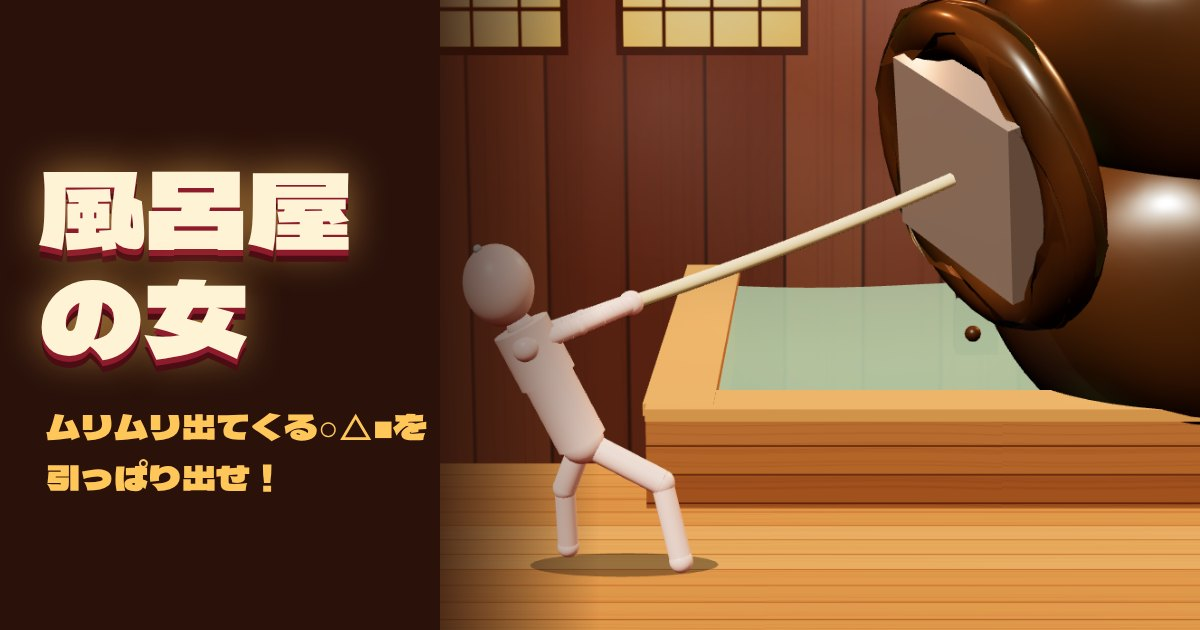
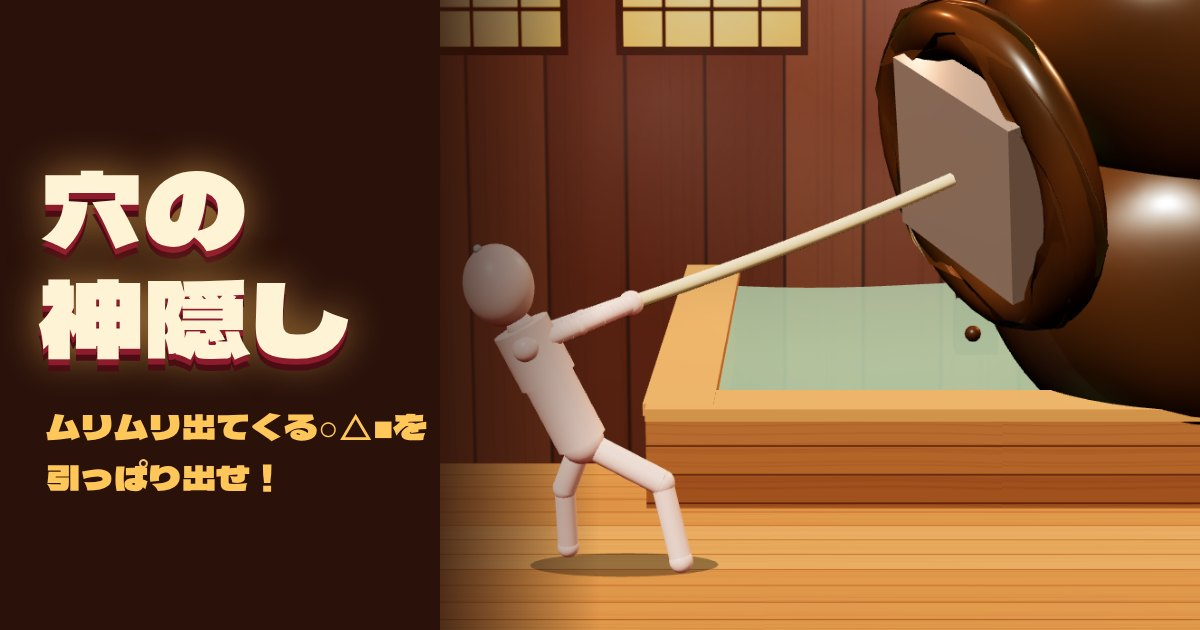
仕上げ：「穴の神隠し」に改名、練習・連続・金の○・お尻の反応・振動・共有画像・軽量モード・読みこみ表示・称号の検算、ランキング最終リセット
Claude-Session: https://claude.ai/code/session_015kjrkbndTJzVydCEMe4R1T

Changed region(s): [[0.0308, 0.2413, 0.3083, 0.6032]]

diff --git a/admin.html b/admin.html
@@ -3,7 +3,7 @@
 <head>
 <meta charset="utf-8">
 <meta name="viewport" content="width=device-width,initial-scale=1">
-<title>風呂屋の女 管理画面</title>
+<title>穴の神隠し 管理画面</title>
 <meta name="robots" content="noindex">
 <style>
 body{margin:0;background:#2a1210;color:#fff3d6;font-family:"Hiragino Kaku Gothic ProN","Noto Sans JP","Yu Gothic",Meiryo,sans-serif}
@@ -24,7 +24,7 @@ small{color:#d9bfa0}
 <script src="config.js"></script>
 </head>
 <body><main>
-<h1>風呂屋の女 管理画面</h1>
+<h1>穴の神隠し 管理画面</h1>
 <div class="box">
   <div>この画面の管理用ID：</div><p><code id="uid">読みこみ中…</code></p>
   <div style="font-size:13px;line-height:1.7">はじめての時だけ：Firebase の Realtime Database で、いちばん上に <b>furo_admin</b> を作り、その下に <b>uid</b> を作って、値に上のIDを入れてください。<br>（このブラウザのデータを消すとIDが変わります。そのときは入れなおしてください）</div>
@@ -54,11 +54,11 @@ async function load(){const msg=document.getElementById('msg');msg.textContent='
   try{
     if(!FB.apiKey||!FB.databaseURL)throw new Error('config.js に apiKey と databaseURL が入っていません');
     const a=await auth();document.getElementById('uid').textContent=a.uid;
-    const [sc,hd]=await Promise.all([fetch(DBU+'/furo3/scores.json?orderBy=%22s%22&limitToLast=100').then(r=>r.json()),fetch(DBU+'/furo3/hidden.json').then(r=>r.json())]);
+    const [sc,hd]=await Promise.all([fetch(DBU+'/furo4/scores.json?orderBy=%22s%22&limitToLast=100').then(r=>r.json()),fetch(DBU+'/furo4/hidden.json').then(r=>r.json())]);
     LIST=Object.entries(sc||{}).map(([u,v])=>Object.assign({u},v)).sort((x,y)=>y.s-x.s||x.t-y.t);
     document.getElementById('tbl').innerHTML=LIST.map((r,i)=>{const h=hd&&hd[r.u];return `<tr id="r_${esc(r.u)}" class="${h?'hid':''}"><td>${i+1}</td><td>${esc(r.n)}${r.x?`<br><a href="https://x.com/${esc(r.x)}" target="_blank" rel="noopener">@${esc(r.x)}</a>`:''}<br><small>${new Date(r.t).toLocaleString('ja-JP')}</small></td><td><b>${(+r.s).toLocaleString()}</b>cm<br><small>${r.c}個・${Math.round((r.f||0)/60)}秒</small></td><td class="ck"><button class="chk" data-c="${esc(r.u)}">検算</button></td><td><a href="./?replay=${encodeURIComponent(r.u)}" target="_blank">再生</a></td><td>${h?`<button class="show" data-u="${esc(r.u)}" data-h="0">戻す</button>`:`<button class="hide" data-u="${esc(r.u)}" data-h="1">隠す</button>`}</td></tr>`}).join('')||'<tr><td>まだ記録がありません</td></tr>';
     document.querySelectorAll('[data-u]').forEach(b=>b.onclick=async()=>{try{const a=await auth();const u=b.dataset.u;
-      const r=await fetch(DBU+'/furo3/hidden/'+u+'.json?auth='+encodeURIComponent(a.token),{method:b.dataset.h==='1'?'PUT':'DELETE',body:b.dataset.h==='1'?'true':undefined});
+      const r=await fetch(DBU+'/furo4/hidden/'+u+'.json?auth='+encodeURIComponent(a.token),{method:b.dataset.h==='1'?'PUT':'DELETE',body:b.dataset.h==='1'?'true':undefined});
       if(!r.ok)throw new Error('変更できませんでした（furo_admin/uid にこの画面のIDが入っているか確認）');load()}catch(e){msg.textContent=e.message}});
     document.querySelectorAll('[data-c]').forEach(b=>b.onclick=()=>check(b.dataset.c));
   }catch(e){msg.textContent=e.message}}
@@ -66,13 +66,13 @@ async function check(u){
   const row=document.getElementById('r_'+u);if(!row)return;const cell=row.querySelector('.ck');cell.textContent='検算中…';
   try{
     const rec=LIST.find(x=>x.u===u);
-    const rp=await fetch(DBU+'/furo3/replays/'+u+'.json').then(r=>r.json());
+    const rp=await fetch(DBU+'/furo4/replays/'+u+'.json').then(r=>r.json());
     if(!rp||!rp.r)throw new Error('操作の記録がない');
     const w=document.getElementById('sim').contentWindow;
     if(!w||!w.verifyReplay)throw new Error('検算の準備ができていない。少し待ってもう一度');
     const res=w.verifyReplay(rp.seed,rp.r);
-    const ok=res.score===rec.s&&res.n===rec.c&&rp.seed===rec.seed;
-    cell.innerHTML=ok?'<b style="color:#8fe08f">OK</b>':`<b style="color:#ff8a80">ちがう</b><br><small>再計算 ${res.score}cm・${res.n}個</small>`;
+    const ok=res.score===rec.s&&res.n===rec.c&&rp.seed===rec.seed&&(!rec.ti||res.ti===rec.ti);
+    cell.innerHTML=ok?'<b style="color:#8fe08f">OK</b>':`<b style="color:#ff8a80">ちがう</b><br><small>再計算 ${res.score}cm・${res.n}個・称号${res.ti}</small>`;
     row.classList.toggle('bad',!ok);
   }catch(e){cell.innerHTML=`<small>${esc(e.message)}</small>`}
 }

diff --git a/README.md b/README.md
@@ -1,4 +1,4 @@
-# 風呂屋の女
+# 穴の神隠し
 
 巨大なヘドロのお尻からムリムリ出てくる○△■を、綱で引っぱり出せ！ 長押しの力加減ひとつで勝負する3Dブラウザゲーム（three.js）。
 
@@ -20,7 +20,10 @@
 - 綱を引くのは顔なしのデッサン人形。強すぎると腕がゴムのように伸びる
 - 穴のまわりの輪が危険度（赤＝強すぎ、青＝弱すぎ、満タンで失敗）。失敗後は最後の5秒の力をグラフで表示
 - 称号は titles.js（冠25×くせ20×本体20＝1万通り＋レア称号）。ランキングには称号コード ti を保存
-- ランキングは furo3 に保存（furo・furo2 は古い版の記録を残しているだけ）
+- 最初の1個は練習（失敗しない）。まれに金の○（大きさ2倍）やゆらゆら形が変わるもの。危なげなく続けて抜くと輪のまわりに星が増え、BGMが速くなる
+- 結果画面から共有画像（場面＋称号＋点数）を作って保存・共有できる
+- 重い端末は自動で軽量モード（画質と湯気を落とす）
+- ランキングは furo4 に保存（furo〜furo3 は古い版の記録を残しているだけ）
 
 ## 素材
 - 絵・BGM・効果音：ゲーム内で自作（プログラムで描画）
